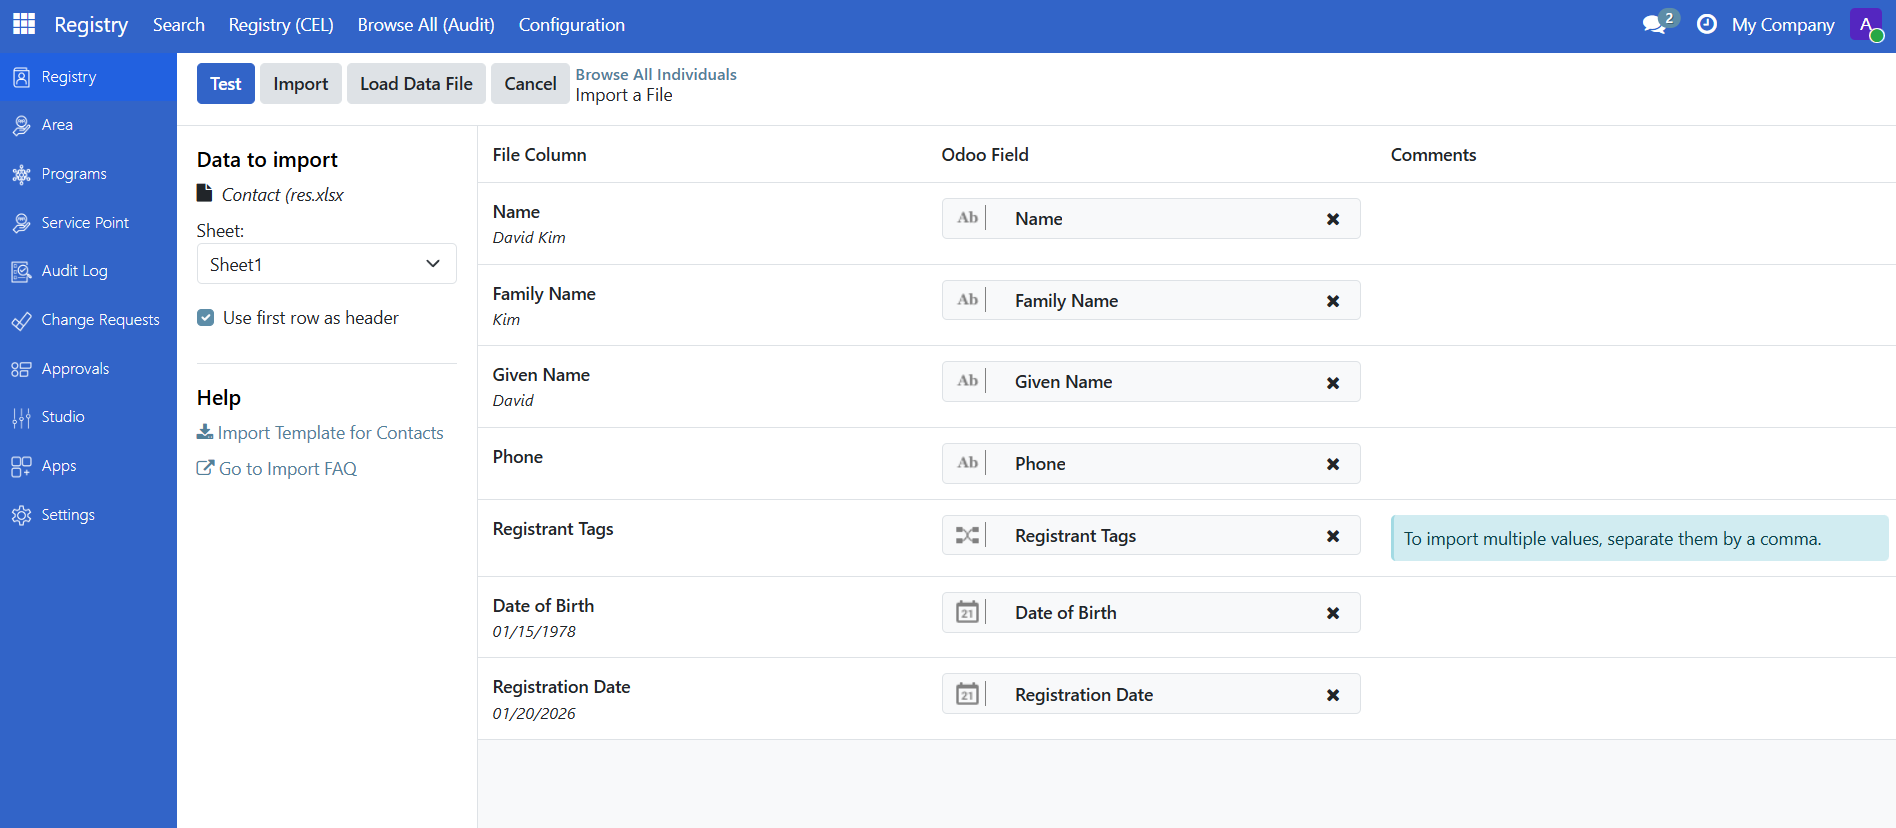
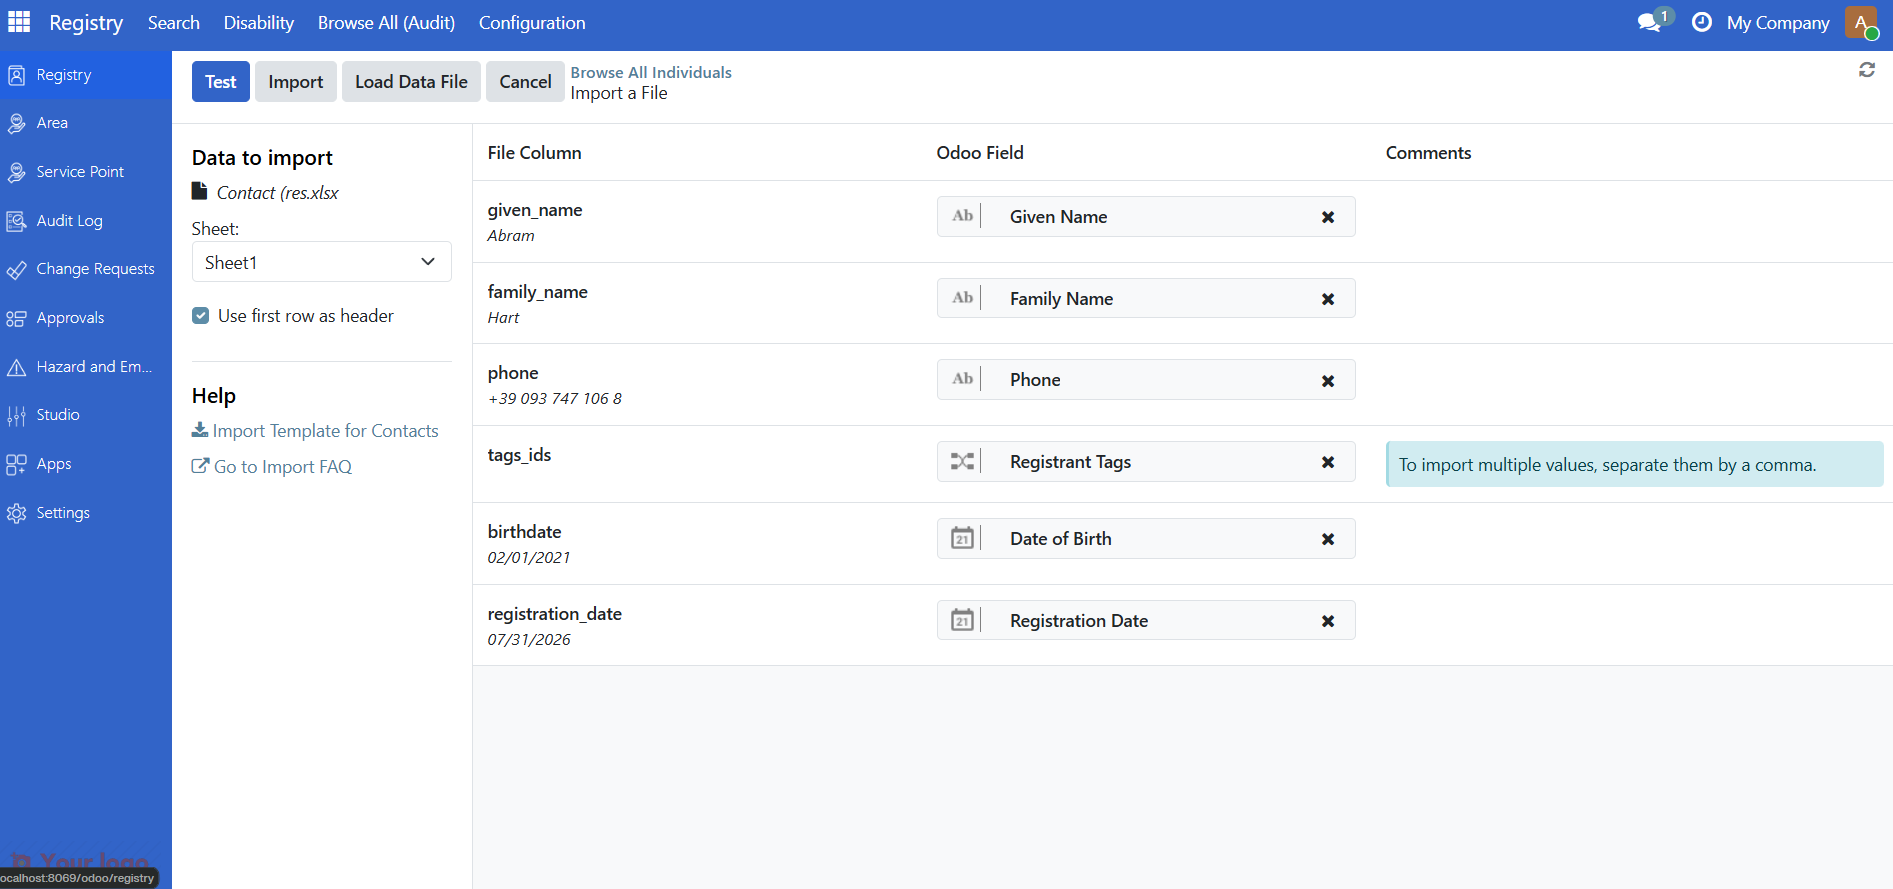
update import data documentation and screenshots

diff --git a/docs/user_guide/registry/import_data.md b/docs/user_guide/registry/import_data.md
@@ -75,7 +75,10 @@ For new individual records, these fields are required:
 |-------|-------------|
 | **family_name** | Last name / surname |
 | **given_name** | First name |
-| **name** | given name + family name |
+
+```{note}
+Don't include a **name** column for individuals. OpenSPP generates it automatically from **family_name** and **given_name** (plus **addl_name** if provided), in the format `FAMILY NAME, GIVEN NAME` (uppercase). A **name** value in your file overrides this auto-generated one.
+```
 
 
 For new group records, this field is required:
